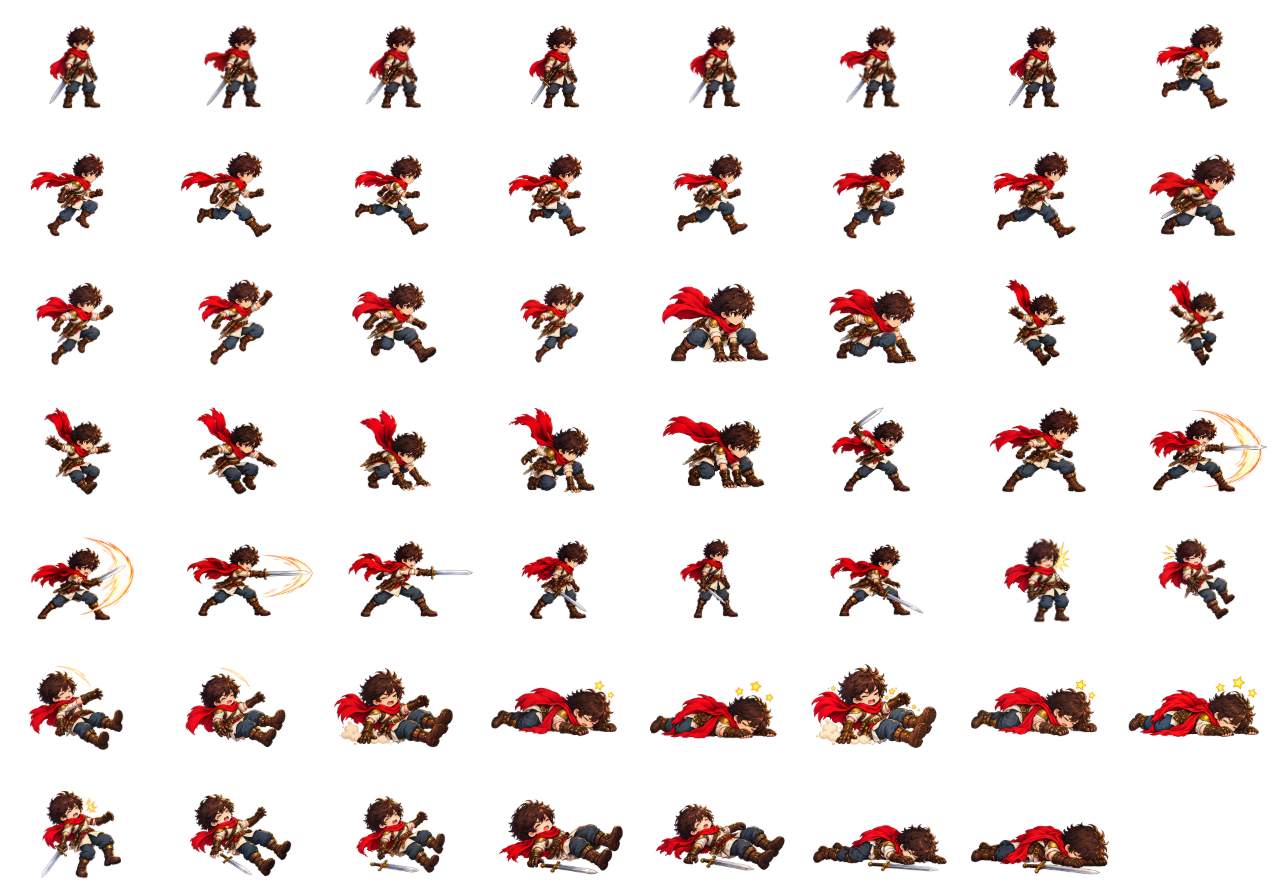
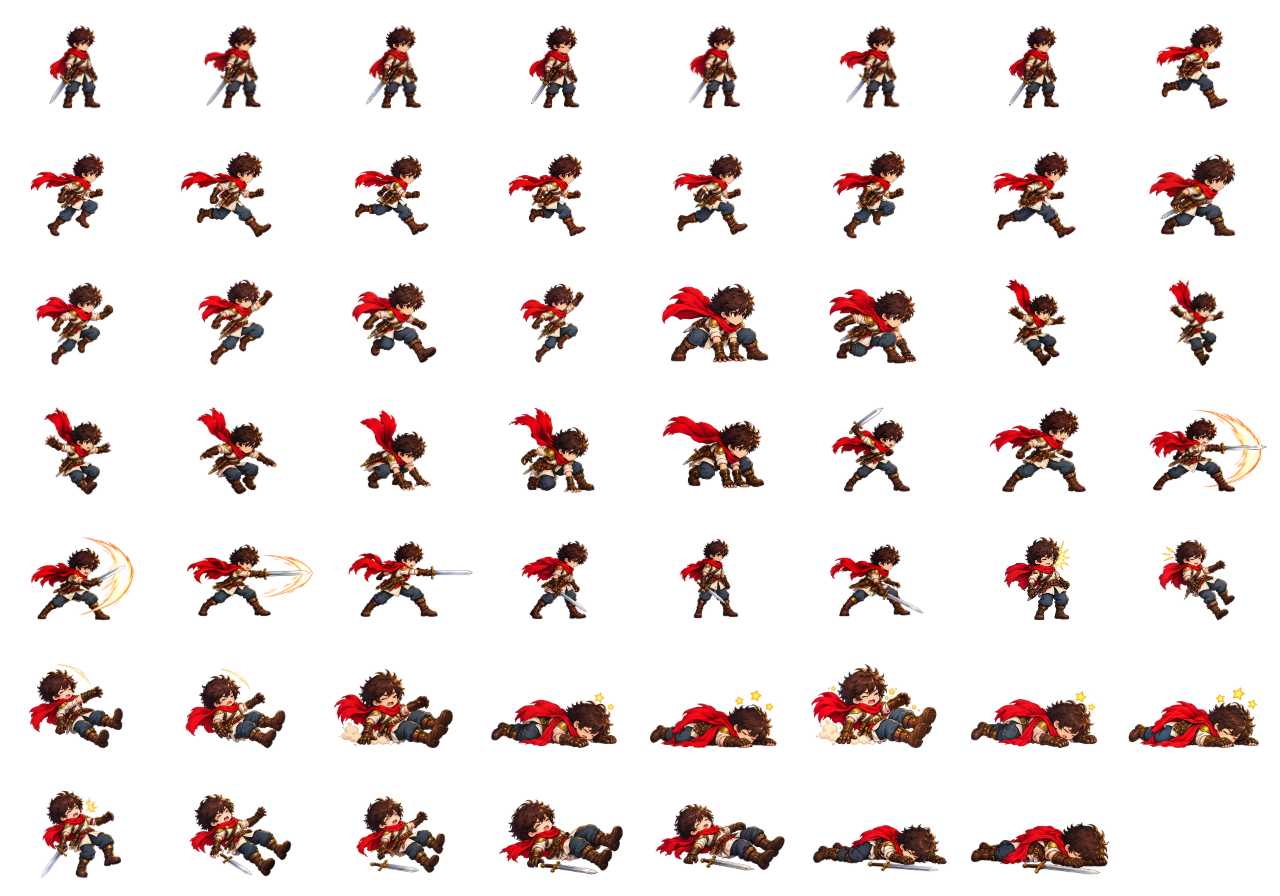
veer fix

diff --git a/tests/veer-hurt.spec.js b/tests/veer-hurt.spec.js
@@ -1,0 +1,24 @@
+import { test, expect } from '@playwright/test';
+
+test('Veer hurt frames touch ground and damage does not launch a grounded Veer', async ({ page }) => {
+  await page.goto('/#/play/1-1');
+  await page.waitForFunction(() => window.__AARANYA_GAME__?.scene.getScene('GameScene')?.player?.body.blocked.down);
+  const result = await page.evaluate(() => {
+    const s = window.__AARANYA_GAME__.scene.getScene('GameScene'), e = s.player;
+    e.takeDamage(e.x - 50);
+    const vy = e.body.velocity.y;
+    const texture = s.textures.get('veer');
+    const c = document.createElement('canvas'); c.width = 160; c.height = 128;
+    const ctx = c.getContext('2d');
+    const feet = Array.from({ length: 10 }, (_, i) => {
+      const f = texture.get(`veer-hurt-${i}`); ctx.clearRect(0, 0, 160, 128);
+      ctx.drawImage(texture.getSourceImage(), f.cutX, f.cutY, 160, 128, 0, 0, 160, 128);
+      const rgba = ctx.getImageData(0, 0, 160, 128).data;
+      for (let y = 127; y >= 0; y--) for (let x = 0; x < 160; x++) if (rgba[(y * 160 + x) * 4 + 3] >= 128) return y + 1;
+      return 0;
+    });
+    return { vy, feet, health: e.health };
+  });
+  expect(result.vy).toBe(0); expect(result.health).toBe(2);
+  for (const foot of result.feet) expect(Math.abs(foot - 108)).toBeLessThanOrEqual(1);
+});

diff --git a/src/game/art/veerAnimationConfig.js b/src/game/art/veerAnimationConfig.js
@@ -26,7 +26,7 @@ export const veerAnimationConfig = {
   fall: { count: 7, duration: 350, repeat: 0, anchorX: 0.57 },
   attack: { count: 9, duration: 250, repeat: 0, anchorX: 0.48,
     anchors: [0.55, 0.53, 0.43, 0.48, 0.43, 0.43, 0.57, 0.57, 0.57], activeFrames: [3, 4, 5, 6] },
-  hurt: { count: 10, duration: 220, repeat: 0, anchorX: 0.55 },
+  hurt: { count: 10, duration: 220, repeat: 0, anchorX: 0.55, alignFeet: true },
   death: { count: 7, duration: 450, repeat: 0, anchorX: 0.50 },
 };
 

diff --git a/src/game/entities/Player.js b/src/game/entities/Player.js
@@ -101,7 +101,7 @@ export default class Player extends Phaser.Physics.Arcade.Sprite {
     this.invincibleUntil = this.elapsed + 1300;
     this.hurtUntil = Math.max(this.elapsed + 220, this.posture.brokenUntil);
     this.attackUntil = 0;
-    this.setVelocity(this.x < sourceX ? -170 : 170, -180);
+    this.setVelocity(this.x < sourceX ? -170 : 170, this.body.blocked.down ? 0 : this.body.velocity.y);
     this.emit('damage', this.health);
     if (this.health === 0) {
       this.dead = true;
